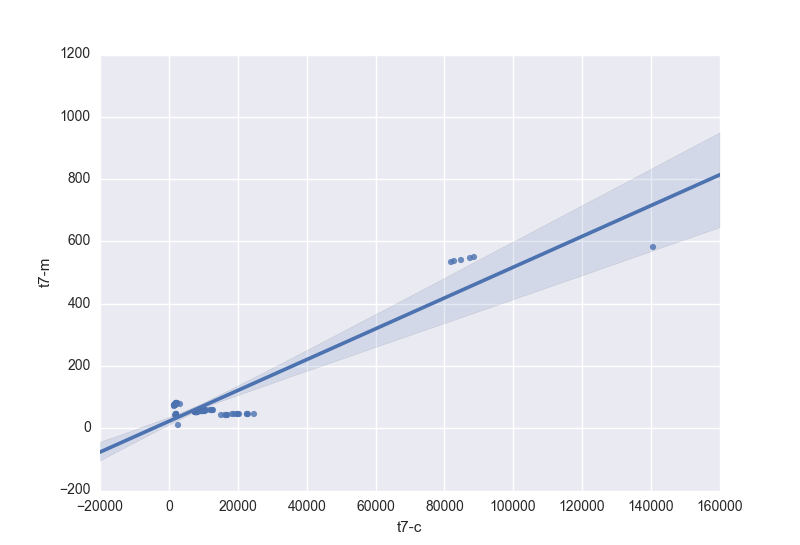
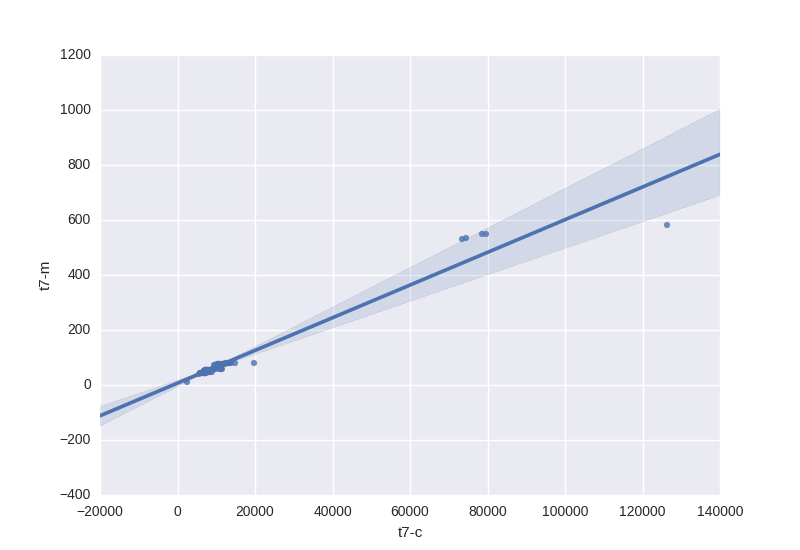
finalized the counts-fpkm correlation

diff --git a/week_1/comparator.py b/week_1/comparator.py
@@ -32,6 +32,8 @@ combined = df_my_pipe.join(df_cufflinks, how='left')
 for i in range(1, 11):
     title = 't%s' % i
     sns.regplot(title+'-c', title+'-m', data=combined)
-    sns.plt.show()
+    sns.plt.savefig('corr-total.png')
+    # sns.plt.clf()
+    # sns.plt.show()
     # x = combined[title+'-c']
     # y = combined
